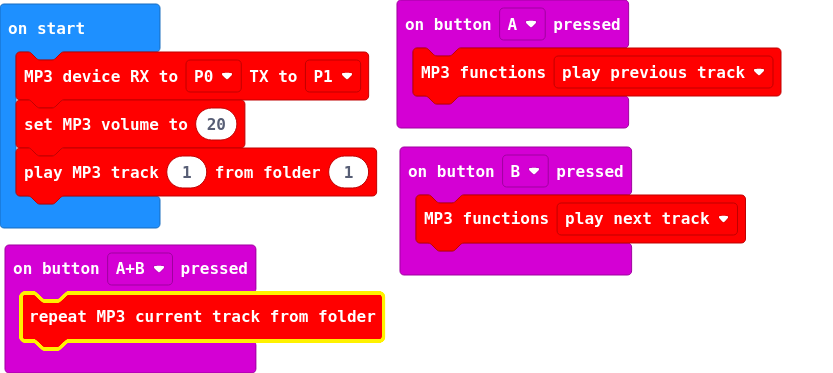
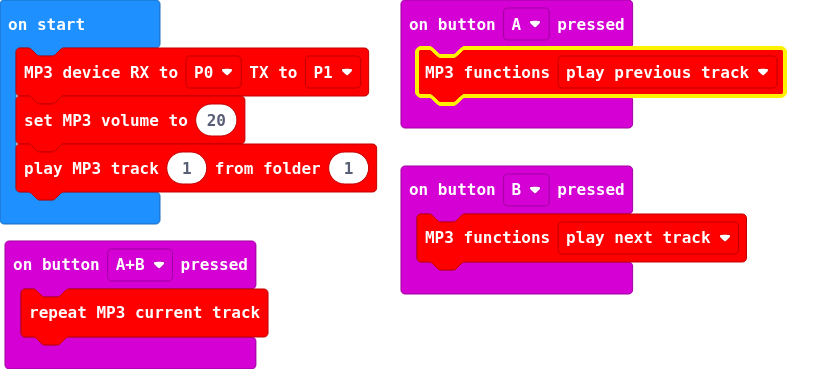
Modified repeat function to repeat trancks in and out from folder

Changed region(s): [[0.0, 0.0, 0.9676, 1.0], [0.0, 0.0596, 0.1248, 0.0894], [0.0, 0.2385, 0.0312, 0.2683]]

diff --git a/hacedores.ts b/hacedores.ts
@@ -240,24 +240,29 @@ namespace hacedores {
         sendCommand(MP3Command.repeatFolder(folder));
     }*/
 
+
     /**
      * Repeat current track 
      * @param track is in range from 0 to 255 
     */
     //%subcategory="MP3"
-    //%block="repeat MP3 current track from folder"
+    //%block="repeat MP3 current track"
     export function repeatMP3CurrentTrack(): void {
+        let track = informationDevice.current_track;
         if(informationDevice.playFolder == true){
-            let track = informationDevice.current_track;
+            let folder = informationDevice.current_folder;
             if (track < 0 || track > 255) {
                 return;
             }
             basic.pause(500);
             sendCommand(MP3Command.stop());
             basic.pause(500);
-            sendCommand(MP3Command.playTrack(track));
+            sendCommand(MP3Command.playTrackFromFolder(track, folder));
         } else {
-            return;
+            basic.pause(500);
+            sendCommand(MP3Command.stop());
+            basic.pause(500);
+            sendCommand(MP3Command.playTrack(track));
         }
     }
 
